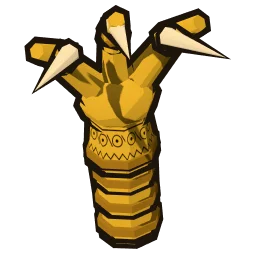
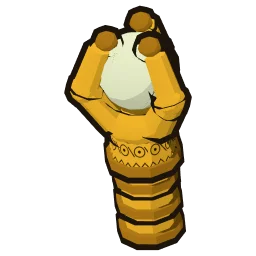
Triệu Quang Phục: mũ đâu mâu tua đỏ, móng rồng vàng ôm ngọc thay vuốt ngà nhọn
Claude-Session: https://claude.ai/code/session_01Wn2t7DpxkwJDdxMXUkf6e8

diff --git a/src/render/heroes.ts b/src/render/heroes.ts
@@ -1776,32 +1776,51 @@ export function makeBaTrieu(opts: { onFoot?: boolean; anh?: boolean } = {}): THR
 /** Cỡ thân Triệu Quang Phục: cao ngang Cao Lỗ, đi bộ. */
 const K_TQP = 1.35;
 
+/** Ngọc rồng: ngọc trắng xanh trong móng rồng. */
+const NGOC_RONG = 0xdff3e4;
+
+/** Khối trụ nối điểm `a` tới điểm `b` (bán kính đầu `ra`, cuối `rb`). */
+function noi(p: Parts['plain'], a: V3, b: V3, ra: number, rb: number, color: number): void {
+  const va = new THREE.Vector3(...a);
+  const vb = new THREE.Vector3(...b);
+  const dir = vb.clone().sub(va);
+  const e = new THREE.Euler().setFromQuaternion(new THREE.Quaternion().setFromUnitVectors(new THREE.Vector3(0, 1, 0), dir.clone().normalize()));
+  const mid = va.add(vb).multiplyScalar(0.5);
+  p.cyl(rb, ra, dir.length(), color, mid.x, mid.y, mid.z, [e.x, e.y, e.z], 7);
+}
+
 /**
- * Móng rồng Chử Đồng Tử trao cho Triệu Quang Phục: cổ móng vàng vảy, ba ngón vàng xòe ra, vuốt ngà cong về trước, một
- * cựa sau. Gốc ở giữa cổ móng, ngón hướng +y, vuốt cong về +z; `co` là cổ móng dài thêm xuống dưới.
+ * Móng rồng Chử Đồng Tử trao cho Triệu Quang Phục, vẽ theo lối chạm vàng: cổ móng vàng hoa văn, ba ngón vàng tròn
+ * mập ôm lấy viên ngọc rồng trắng xanh, đầu ngón bịt móng vàng sẫm cụp vào ngọc (không vuốt nhọn). Gốc ở giữa cổ móng,
+ * ngọc ở trên; `co` là cổ móng dài thêm xuống dưới (bảo vật đặt đứng).
  */
 export function mongRong(m: Parts, k = 1, co = 0): void {
   const p = m.plain;
-  // Bảo vật: cổ móng dài thêm `co`, vảy vàng sẫm từng khoanh.
   if (co > 0) {
-    p.cyl(0.036 * k, 0.03 * k, co * k, C.gold, 0, -co * k * 0.5, 0, undefined, 8);
-    for (let y = 0.03; y < co; y += 0.035) p.cyl(0.038 * k, 0.038 * k, 0.01 * k, C.goldDark, 0, -y * k, 0, undefined, 8);
+    p.cyl(0.04 * k, 0.034 * k, co * k, C.gold, 0, -co * k * 0.5, 0, undefined, 10);
+    for (let y = 0.03; y < co; y += 0.04) p.cyl(0.043 * k, 0.043 * k, 0.012 * k, C.goldDark, 0, -y * k, 0, undefined, 10);
   }
-  m.band.cyl(0.034 * k, 0.04 * k, 0.05 * k, C.gold, 0, 0.025 * k, 0, undefined, 8);
-  p.cyl(0.043 * k, 0.043 * k, 0.014 * k, C.goldDark, 0, 0, 0, undefined, 8);
-  p.sphere(0.046 * k, C.gold, 0, 0.075 * k, 0.005 * k, [1, 0.75, 0.85], 8);
-  for (const i of [-1, 0, 1]) {
-    const a = i * 0.62;
-    const sx = Math.sin(a);
-    const cy = Math.cos(a);
-    // Hai đốt ngón vàng thon dài xòe ra, gập dần về trước; vuốt ngà nhọn cong hẳn về trước.
-    p.cyl(0.013 * k, 0.018 * k, 0.09 * k, C.gold, sx * 0.075 * k, 0.08 * k + cy * 0.05 * k, 0.01 * k, [0.2, 0, -a], 6);
-    p.sphere(0.015 * k, C.goldDark, sx * 0.115 * k, 0.08 * k + cy * 0.095 * k, 0.02 * k, [1, 1, 1], 6);
-    p.cyl(0.01 * k, 0.014 * k, 0.07 * k, C.gold, sx * 0.135 * k, 0.08 * k + cy * 0.125 * k, 0.045 * k, [0.75, 0, -a], 6);
-    p.cone(0.012 * k, 0.1 * k, C.cream, sx * 0.15 * k, 0.08 * k + cy * 0.14 * k, 0.1 * k, [1.45, 0, -a], 6);
+  m.band.cyl(0.042 * k, 0.046 * k, 0.05 * k, C.gold, 0, 0.025 * k, 0, undefined, 10);
+  p.cyl(0.05 * k, 0.05 * k, 0.014 * k, C.goldDark, 0, 0.003 * k, 0, undefined, 10);
+  p.sphere(0.05 * k, C.gold, 0, 0.06 * k, 0, [1, 0.6, 1], 10);
+  // Ngọc rồng giữa ba ngón.
+  const ny = 0.135 * k;
+  p.sphere(0.052 * k, NGOC_RONG, 0, ny, 0, [1, 1, 1], 12);
+  for (let i = 0; i < 3; i++) {
+    const a = (i / 3) * Math.PI * 2 + Math.PI / 6;
+    const dx = Math.sin(a);
+    const dz = Math.cos(a);
+    const at = (r: number, y: number): V3 => [dx * r * k, y * k, dz * r * k];
+    // Ngón mập hai đốt: ra ngoài ôm quanh hông ngọc, rồi cụp vào trên đỉnh ngọc.
+    const g0 = at(0.035, 0.065);
+    const g1 = at(0.07, 0.12);
+    const g2 = at(0.045, 0.18);
+    noi(p, g0, g1, 0.022 * k, 0.019 * k, C.gold);
+    p.sphere(0.02 * k, C.gold, ...g1, [1, 1, 1], 8);
+    noi(p, g1, g2, 0.018 * k, 0.015 * k, C.gold);
+    // Móng tròn vàng sẫm ở đầu ngón, cụp vào ngọc.
+    p.sphere(0.016 * k, C.goldDark, ...at(0.035, 0.19), [1, 0.8, 1], 7);
   }
-  // Cựa sau.
-  p.cone(0.012 * k, 0.06 * k, C.cream, 0, 0.07 * k, -0.06 * k, [-1.9, 0, 0], 6);
 }
 
 /**
@@ -1815,10 +1834,11 @@ export function aoLauSay(h: HumanRig): void {
   cloak(h, { color: C.lauSay, trim: C.lauSayDark, hem: 0.2, flare: 0.1 });
 }
 
-/** Mũ đâu mâu: mũ trụ đồng vành hoa văn, sống mũ, che gáy; móng rồng cài trước trán. */
+/** Mũ đâu mâu: mũ trụ đồng vành xanh đầm hoa văn, sống mũ vàng, che gáy, chóp cắm tua đỏ; móng rồng ôm ngọc cài trước trán. */
 function dauMau(h: HumanRig): void {
-  helmet(h, { color: C.bronzeDark, rim: 0.83, lift: 0.07, puff: 0.01, band: C.tqpDark, bandH: 0.035, bandPattern: true, ridge: C.gold, neck: 0.08, guard: C.bronzeDark, guardTrim: C.gold, top: { kind: 'spike', color: C.gold, h: 0.12 } });
-  h.local('head', [0, 0.95, 0.14], [-0.2, 0, 0], (s) => mongRong(s, 1.3));
+  helmet(h, { color: C.bronze, rim: 0.83, lift: 0.05, puff: 0.01, band: C.tqp, bandH: 0.04, bandPattern: true, ridge: C.gold, neck: 0.08, guard: C.bronze, guardTrim: C.gold, top: { kind: 'tube', color: C.gold }, tuft: { color: C.red, len: 0.14, lean: 0.35, r: 0.025 } });
+  // Móng rồng nhỏ ôm ngọc cài giữa vành mũ trước trán.
+  h.local('head', [0, 0.86, 0.165], [0.35, 0, 0], (s) => mongRong(s, 0.75));
 }
 
 /**

diff --git a/src/render/anhDoDau.ts b/src/render/anhDoDau.ts
@@ -10,7 +10,7 @@ export const ANH_DO_DAU: Record<string, string> = {
   'coLoa-giap': 'efe20541',
   'coLoa-phucSuc': '9d254856',
   'coLoa-vuKhi': 'b9bebcf5',
-  'daTrach-baoVat': '331a2264',
+  'daTrach-baoVat': 'c4615ed3',
   'daTrach-giap': 'eb8c1bc7',
   'daTrach-phucSuc': '31552d46',
   'daTrach-vuKhi': 'd2e4eedc',

diff --git a/CLAUDE.md b/CLAUDE.md
@@ -18,7 +18,7 @@ Game xây dựng chiến thuật chạy trên trình duyệt điện thoại (Ty
   - `bien.ts` lo biển Đông phía đông nam (bờ chéo như Bắc Bộ quanh x + z = `BIEN_CHEO`, lồi lõm theo `bienNhieu`; `bienDo` là khoảng cách tới mép bãi cát: âm là đất, tới `BAI_CAT` là bãi, rồi biển, `isSea`, `isWater`; `bienDiem` cho điểm theo bờ; góc đông nam sau ngã ba là cửa biển, sông Đà đổ ra `CUA_BIEN`; bãi cát không chạm khoảnh nào), hai quần đảo Hoàng Sa, Trường Sa theo hướng ngoài đời (`QUAN_DAO`: mỗi quần đảo một đảo chính 20 × 20 ô đất theo ô, `DAO_CHINH`, `daoChinh`, `daoGoc`, và các đảo nhỏ tròn quanh đó; ngư trường quanh quần đảo; `onIsland`) và đường thuyền khơi (`benDock`, `riverOf`, `seaRoute`: bến đầu ra Hoàng Sa, bến thứ hai ra Trường Sa, `seaIndex`, `boatsAt`). Thủy binh Triệu vào từ biển: lúc trinh sát báo, `upcomingBoats` (`game.ts`) cho chỗ từng thuyền sẽ hiện ra khi trận mở (`plannedBoats`, `boatLayout`, `battleSeed` ở `battle.ts`, dùng chung với `startBattle`), trận không đổi; `chuong4.test.ts` canh khớp chỗ. Bến thuyền khơi (`benKhoi` ở `defs.ts`, Điện 8, cấp 2, 3 ở Điện 9, 10, sát sông) làm ra vỏ ốc và cá biển (`CA_BIEN_PER_MIN`, `fishOf` ở `game.ts` đỡ gạo ăn như cá làng chài); người chơi mô phỏng có dựng. `bien.test.ts` canh.
   - `dao.ts` lo Điện 10 điều quân ra đóng đảo (`docs/thiet-ke.md` mục Kế hoạch: Điện 10 điều quân ra đóng đảo; PR 1 luật, bản lưu 28): `state.dao` mỗi quần đảo một `DonDao` (đồn ở ngoài lưới nên không vào `state.buildings`). Bến thuyền khơi cấp 3 đóng thuyền chiến cho quần đảo bến ấy đánh cá (`benOf`, `canThuyen`, `startThuyen` ở `xay.ts`, `THUYEN_CHIEN` ở `defs.ts`); đồn đảo ba cấp dựng, nâng bằng tốp thợ (`canDon`, `startDon`, `PhanViec.dao` mã việc âm `daoJobId`, `DON_DAO`); chỗ đồn trên đảo chính `donDaoGoc`, cổng `donDaoHuong`, `donDaoCong`, bến ván thẳng trước cổng `daoBen`, chỗ rẽ vào bến không qua đảo nhỏ `daoVao`, ô dưới cầu ván `inDaoLoi`, đường thuyền `warRoute` (`bien.ts`). Lính đóng: người chơi đặt số muốn đóng (`setDaoLinh`, theo chỗ quân), thuyền tự chạy chuyến 10 chỗ (`advanceDao` trong `tick` và `applyOffline`, chuyến tính bằng thời gian còn lại; đang có trận thì không rời bến); lính ra đảo rời `state.troops`, về bến thì vào lại, vẫn ăn gạo (`daoArmy` trong `foodPerMinute`). Đồn đủ `giuCho` chỗ quân thì giữ biển (`giuBien`): ngư trường thêm vỏ ốc, cá (`nguTruongBonus` trong `outputIn`, `fishIn`; cộng trước khi nhân hệ số gánh về kho), lửa hiệu báo thủy quân Hán sớm (`luaHieu` trong `updateRaid`), lâu thuyền vào tới sông đã sứt máu (`chanThuyen`, `BattleOpts.chan`). Nhiệm vụ 63–66, Lạc hầu gợi ý (`nextDaoHint`), đố sử bốc câu Biển đảo trước (`main.ts`). Người chơi mô phỏng từ Điện 10 nâng bến lên cấp 3, đóng thuyền, dựng đồn (khoản "Đóng đảo" ở `kinhTe.ts`). PR 2 vẽ đồn đảo, thuyền chiến (xem phần `src/render/`). PR 3 giặc Hán đánh đảo (bản lưu 29: `DonDao.hu`, `dot`, `thang`, `sau`, `tran`): từ khi Mã Viện sang, đồn còn nguyên có lính thì giặc tới theo lịch (`advanceGiacDao` trong `tick`: đợt đầu 10 phút, rồi 40 phút, hai đảo so le, đồng hồ đứng khi có trận hay đang xem lại, lúc vắng không có; báo trước `baoDao`; số ở `DAO_GIAC`, `daoForces`, `daoHpScale`, `daoCua` ở `defs.ts`), trận cầm cự 60 giây không tướng tự đánh trọn (`danhDao`, `setupDao` dựng `FieldSetup` từ `TranDao` nên xem lại ra y hệt; nền và bố cục `dao`; lính cộng theo cấp đồn, binh khí, Lê Chân qua `FieldSetup.nuMoi`). Thắng thì được gỗ, sắt; thua thì lính đảo chết hết, đồn hư (`giuBien` 0, không chở lính, không giặc) tới khi sửa (`suaDon`, `suaDonCost`); nhiệm vụ 67 (`giuDao`, `daoGiuDuoc`). `dao.test.ts` canh, kể cả độ khó theo chuẩn và bản lưu 29.
   - Dã ngoại (`docs/thiet-ke.md` mục Kế hoạch: dã ngoại; bản lưu 30, map 6 Núi Nưa bản lưu 31, map 7 Đầm Dạ Trạch bản lưu 32, map 8 Núi Vệ bản lưu 33, map 9 Bạch Đằng bản lưu 34, map 10 sông Như Nguyệt bản lưu 35): mười map mở kiểu Võ Lâm 2 (map cuối `DA_MAP_CUOI` không có cổng sau; boss map 6–10 rơi phẩm theo `DaMapDef.bossRoi`; Lạc hầu báo mỗi map mới theo `vi.daNgoai.hintMap`) (`DA_MAP` ở `defs.ts`: nền, cấp quái, cổng mở theo cấp chung, năm loại quái theo khu, boss, của mỗi con). `daNgoaiMap.ts` lo bố cục (`boCuc`: trại, năm khu, khu boss, hai cổng, lối đi, vật cản gieo theo hạt giống; `timDuong` A* trên lưới ô, `truotCan`, `khuTai`). `daNgoaiTran.ts` lo trận trên map (chế độ `daNgoai` của `battle.ts`, `Battle.da`, `Fighter.nha`; tướng thứ ba ở `Battle.heroThem`): `taoTranDa`, `stepDa` (quái đứng chờ, đuổi, quá `xich` thì về hồi máu, chết thì mọc lại; Tự đánh tìm quái trong khu đang đứng, không nhắm boss, tự dùng kỹ năng, máu đội thấp thì nghỉ `da.nghi`; tướng ngã đứng dậy khi yên, cả đội ngã về trại), `chamMap` (chạm quái, cổng, đất), `capBonus`, `sucQuai`. `daNgoai.ts` lo phần lưu `GameState.daNgoai` (cấp chung, kinh nghiệm, map, chỗ đứng, đội, Tự đánh, giờ boss mọc lại): `vaoDa`, `moMap`, `capNhatDa` (thưởng, đồ rơi `daQuai`/`daBoss` không vượt chương đang chơi `chuongRoi`, boss chờ `DA_BOSS_MS`), `quaCong`, `chonMap`, `datDoi`, treo máy bằng công thức (`tiSuc`, `nhipTreo`, `tichTreo` khi không xem map, `treoVang` trong `applyOffline`, trần `DA_TREO.tran`). Cấp chung chỉ cộng trên map (`battle.bonus`), không khóa, không làm tướng kiệt sức (`tuongSetup` ở `son.ts`). `daNgoai.test.ts` canh.
-  - Tướng dã ngoại (`docs/thiet-ke.md` mục Kế hoạch: năm tướng mới; đã làm Bà Triệu, Triệu Quang Phục; còn Mai Thúc Loan, Ngô Quyền, Lý Thường Kiệt): mỗi map 6–10 một tướng (`TUONG_DA_IDS`, `TUONG_DA_MAP` ở `defs.ts`), về khi hạ boss map ấy lần đầu (`tuongDaVe`, `laTuongDa` ở `tuongDa.ts`: `daNgoai.boss[map − 1] > 0`, không lên bản lưu; đoạn truyện kể một lần), chỉ đánh ở dã ngoại: có trong `HERO_KINDS` nhưng không trong `TUONG_IDS` (không doanh), `heroesFor` không chọn, bản chụp Đấu thành chỉ nhận tướng truyện `HERO_TRUYEN` (`battle.ts`). Bộ đồ của tướng dã ngoại (`BO_DA`) chỉ rơi ở map của tướng ấy khi tướng đã về (`roiDo(..., bo)`, `boMap` ở `daNgoai.ts`), ai mặc cũng được, máy chủ nhận ở chương 5. Bà Triệu: voi trắng một ngà mọc giữa trán (`makeBaTrieu`, `VOI_TRANG` ở `heroes.ts`; `VoiTranLook.skin`, `motNga` ở `beasts.ts`), Chém cá kình (`CA_KINH`, nhánh `chemCaKinh` của `useSkill`, sự kiện `chem` vẽ ở `battleView.ts`), bộ Núi Nưa, đứng chầu chỗ 3 sân Điện. Triệu Quang Phục: đi bộ, mũ đâu mâu cài móng rồng (`makeTrieuQuangPhuc`, `mongRong`, `aoLauSay` ở `heroes.ts`, `giaoDaTrach` ở `weapons.ts`), Ngày ẩn đêm ra (`NGAY_AN`; nhánh `ngayAn` của `useSkill`: cả đội có `Fighter.an` giây ẩn, quái không thấy người đang ẩn, đuổi thì mất dấu đứng lại (`dangAn` ở `daNgoaiTran.ts`); hết ẩn thì đòn đầu nhân `Fighter.phuc` ở `strike`; sương đầm, lau sậy phủ người ẩn ở `syncSuong` của `battleView.ts`), bộ Dạ Trạch, đứng chầu chỗ 0. `tuongMoi.test.ts` canh; chụp `node scripts/chup-nhan-vat.mjs tuongDa`, cảnh `ba-trieu`, `ba-trieu-tui`, `ba-trieu-dien`, `ba-trieu-truyen`, `tqp`, `tqp-tui`, `tqp-truyen`, `tqp-dien`.
+  - Tướng dã ngoại (`docs/thiet-ke.md` mục Kế hoạch: năm tướng mới; đã làm Bà Triệu, Triệu Quang Phục; còn Mai Thúc Loan, Ngô Quyền, Lý Thường Kiệt): mỗi map 6–10 một tướng (`TUONG_DA_IDS`, `TUONG_DA_MAP` ở `defs.ts`), về khi hạ boss map ấy lần đầu (`tuongDaVe`, `laTuongDa` ở `tuongDa.ts`: `daNgoai.boss[map − 1] > 0`, không lên bản lưu; đoạn truyện kể một lần), chỉ đánh ở dã ngoại: có trong `HERO_KINDS` nhưng không trong `TUONG_IDS` (không doanh), `heroesFor` không chọn, bản chụp Đấu thành chỉ nhận tướng truyện `HERO_TRUYEN` (`battle.ts`). Bộ đồ của tướng dã ngoại (`BO_DA`) chỉ rơi ở map của tướng ấy khi tướng đã về (`roiDo(..., bo)`, `boMap` ở `daNgoai.ts`), ai mặc cũng được, máy chủ nhận ở chương 5. Bà Triệu: voi trắng một ngà mọc giữa trán (`makeBaTrieu`, `VOI_TRANG` ở `heroes.ts`; `VoiTranLook.skin`, `motNga` ở `beasts.ts`), Chém cá kình (`CA_KINH`, nhánh `chemCaKinh` của `useSkill`, sự kiện `chem` vẽ ở `battleView.ts`), bộ Núi Nưa, đứng chầu chỗ 3 sân Điện. Triệu Quang Phục: đi bộ, mũ đâu mâu tua đỏ cài móng rồng ôm ngọc (`makeTrieuQuangPhuc`, `mongRong`, `aoLauSay` ở `heroes.ts`, `giaoDaTrach` ở `weapons.ts`), Ngày ẩn đêm ra (`NGAY_AN`; nhánh `ngayAn` của `useSkill`: cả đội có `Fighter.an` giây ẩn, quái không thấy người đang ẩn, đuổi thì mất dấu đứng lại (`dangAn` ở `daNgoaiTran.ts`); hết ẩn thì đòn đầu nhân `Fighter.phuc` ở `strike`; sương đầm, lau sậy phủ người ẩn ở `syncSuong` của `battleView.ts`), bộ Dạ Trạch, đứng chầu chỗ 0. `tuongMoi.test.ts` canh; chụp `node scripts/chup-nhan-vat.mjs tuongDa`, cảnh `ba-trieu`, `ba-trieu-tui`, `ba-trieu-dien`, `ba-trieu-truyen`, `tqp`, `tqp-tui`, `tqp-truyen`, `tqp-dien`.
   - `ngayDem.ts` lo ngày đêm ở kinh đô (`docs/thiet-ke.md` mục Ngày đêm): chỉ để nhìn, giờ suy từ đồng hồ chơi (`NGAY_MS` 12 phút, mốc buổi `BUOI_MS` ở `defs.ts`; đồng hồ 0 là sáng sớm), `troiLuc` cho trọng số bốn buổi (ngày, chiều tà, đêm, rạng đông), `doToi` cho độ tối. Không luật nào đọc tới, bản lưu không đổi. `ngayDem.test.ts` canh.
   - `vanChuyen.ts` lo dân gánh hàng về kho (`docs/thiet-ke.md` mục Dân gánh hàng về kho): mỗi công trình có chỗ làm (trừ bếp) gánh của làm ra về nơi nhận gần nhất (Điện, kho còn nguyên; nguyên liệu Tết `GANH_BEP` tới bếp hay kho), quãng đường là Dijkstra nhiều nguồn trên lưới chi phí (đường đi, cầu 0,5; lũy, thành còn nguyên chắn hẳn, chỉ qua cổng thành, chỗ hở hay đoạn hư; sông, rừng chưa phát, móng khác không qua), xa quá `GANH.gan` ô thì hệ số giảm tới `GANH.san` (`heSoTheo`, `heSoGanh`; `heSoMap` tính một lần cho cả kinh đô, ghi nhớ theo dấu vết công trình). `outputIn`, `fishIn`, `fishPerMinute` (`game.ts`) và `bakeRates` (`tet.ts`) nhân hệ số; bản lưu không đổi. `duongGanh` cho tuyến ô (phần vẽ người gánh dùng chung), `duongTu` cho tuyến từ móng bất kỳ tới kho, bếp hay riêng Điện (thợ vác vật liệu, người bếp), `ganhPreview` cho thanh đặt công trình, `vungGanh` cho vùng gánh đủ 100% để tô (đặt, dời công trình; chọn kho, Điện, bếp; Dijkstra có ngưỡng `truong(..., tran)`, lưới bỏ công trình đang dời ghi nhớ ở `stateBo`), `needsGanhHint` cho lời Lạc hầu một lần. `giapDuong` nhắc lúc đặt công trình nhiều ô chưa giáp đường (chỉ nhắc). `vanChuyen.test.ts` canh, kể cả bốn mẫu kinh đô có đường mẫu thì công trình nào cũng có lối gánh (mẫu không canh sản lượng) và vùng tô khớp `ganhPreview`. Áp mẫu kinh đô trải đường đất theo đường của mẫu (`mauDuong`, `MauPlan.duong` ở `mau.ts`; không ở `mauSlots` nên kinh đô máy Đấu thành không có đường), `sapxep.test.ts` canh đường mẫu thẳng, nối mọi công trình.
   - `manVao.ts` tóm tắt bản lưu cho màn hình vào game (`tomTat`: game mới hay chơi tiếp, chương `chapterOf`, cấp Điện, dân, đã vắng bao lâu, đã hết truyện); `manVao.test.ts` canh.

diff --git a/docs/thiet-ke.md b/docs/thiet-ke.md
@@ -3935,7 +3935,7 @@ Kỹ năng (dự kiến):
 
 1. **PR 0**: tài liệu này (PR nháp, chờ duyệt).
 2. **PR 1** (đã làm): phần chung (tướng về khi hạ boss, chọn đội, đứng chầu, không lên bản lưu) và trọn Bà Triệu: luật (`TUONG_DA_IDS`, `TUONG_DA_MAP`, `BA_TRIEU`, `CA_KINH` ở `defs.ts`; `tuongDa.ts`), Chém cá kình (`useSkill` ở `battle.ts`, tầm tự dùng ở `daNgoaiTran.ts`), đoạn truyện `baTrieu`, dáng (`makeBaTrieu`, `VOI_TRANG`, `giapVayDong` ở `heroes.ts`; voi trận nhận màu da và một ngà mọc giữa trán thay hai ngà: `VoiTranLook.skin`, `motNga`), vẽ kỹ năng (`chemCaKinh` ở `battleView.ts`), bộ Núi Nưa (4 món, ảnh, `guomNuiNua`, `tramVang`), `tuongMoi.test.ts`, nhóm chụp `node scripts/chup-nhan-vat.mjs tuongDa`, cảnh chụp `ba-trieu`, `ba-trieu-tui`, `ba-trieu-dien`, `ba-trieu-truyen`.
-3. **PR 2** (đã làm): Triệu Quang Phục và bộ Dạ Trạch: `TRIEU_QUANG_PHUC`, `NGAY_AN` ở `defs.ts`; nhánh `ngayAn` của `useSkill`, đòn gấp bội ở `strike` (`battle.ts`); quái không thấy người đang ẩn (`taGan`, `buocQuai` ở `daNgoaiTran.ts`), Tự đánh dùng khi có quái trong 4 ô; đoạn truyện `trieuQuangPhuc` (Lý Nam Đế trao binh quyền, người nói `lyNamDe` chỉ có biểu tượng trong hộp thoại); dáng `makeTrieuQuangPhuc` (đi bộ, mũ đâu mâu đồng sẫm cài móng rồng `mongRong`, áo lau sậy `aoLauSay`, giáo Dạ Trạch `giaoDaTrach`), sương đầm và lau sậy phủ người đang ẩn (`syncSuong`, `ngayAn` ở `battleView.ts`); bộ Dạ Trạch (4 món, ảnh; `thuyenDocMoc`); đứng chầu chỗ 0 sân Điện; chụp `node scripts/chup-nhan-vat.mjs tuongDa`, cảnh `tqp`, `tqp-tui`, `tqp-truyen`, `tqp-dien`. Các chỗ trước viết riêng cho Bà Triệu nay chung cho mọi tướng dã ngoại (`laTuongDa` ở `tuongDa.ts`).
+3. **PR 2** (đã làm): Triệu Quang Phục và bộ Dạ Trạch: `TRIEU_QUANG_PHUC`, `NGAY_AN` ở `defs.ts`; nhánh `ngayAn` của `useSkill`, đòn gấp bội ở `strike` (`battle.ts`); quái không thấy người đang ẩn (`taGan`, `buocQuai` ở `daNgoaiTran.ts`), Tự đánh dùng khi có quái trong 4 ô; đoạn truyện `trieuQuangPhuc` (Lý Nam Đế trao binh quyền, người nói `lyNamDe` chỉ có biểu tượng trong hộp thoại); dáng `makeTrieuQuangPhuc` (đi bộ, mũ đâu mâu đồng có tua đỏ, cài móng rồng nhỏ ôm ngọc `mongRong`; bảo vật Móng rồng là móng vàng ôm ngọc rồng, không vuốt nhọn (chủ dự án thấy bản vuốt ngà nhọn kinh dị), áo lau sậy `aoLauSay`, giáo Dạ Trạch `giaoDaTrach`), sương đầm và lau sậy phủ người đang ẩn (`syncSuong`, `ngayAn` ở `battleView.ts`); bộ Dạ Trạch (4 món, ảnh; `thuyenDocMoc`); đứng chầu chỗ 0 sân Điện; chụp `node scripts/chup-nhan-vat.mjs tuongDa`, cảnh `tqp`, `tqp-tui`, `tqp-truyen`, `tqp-dien`. Các chỗ trước viết riêng cho Bà Triệu nay chung cho mọi tướng dã ngoại (`laTuongDa` ở `tuongDa.ts`).
 4. **PR 3**: Mai Thúc Loan và bộ Vạn An.
 5. **PR 4**: Ngô Quyền và bộ Bạch Đằng.
 6. **PR 5**: Lý Thường Kiệt và bộ Như Nguyệt.
